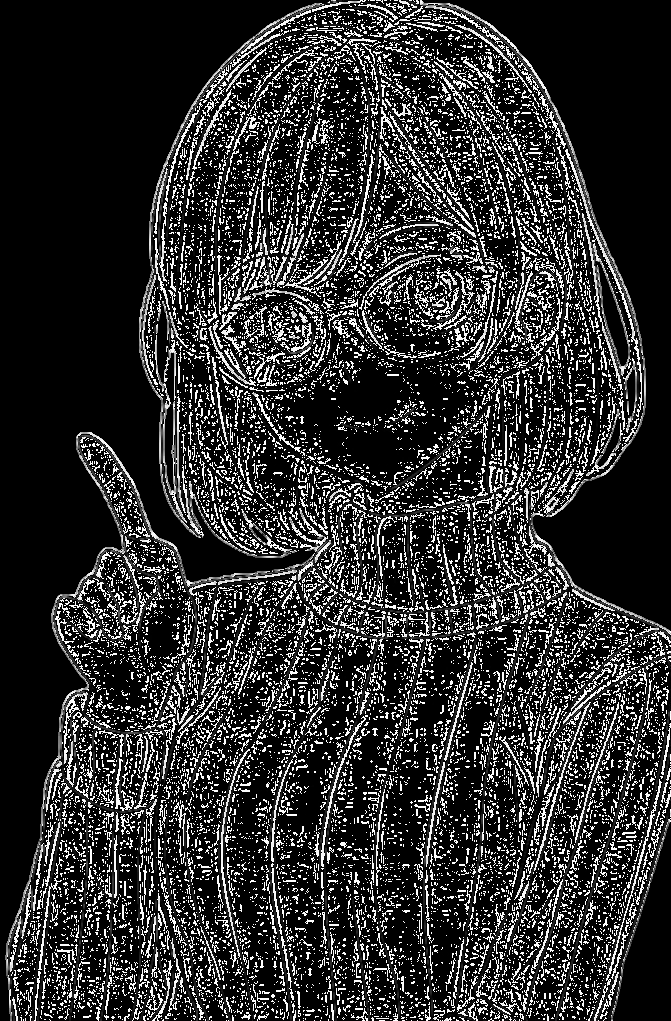
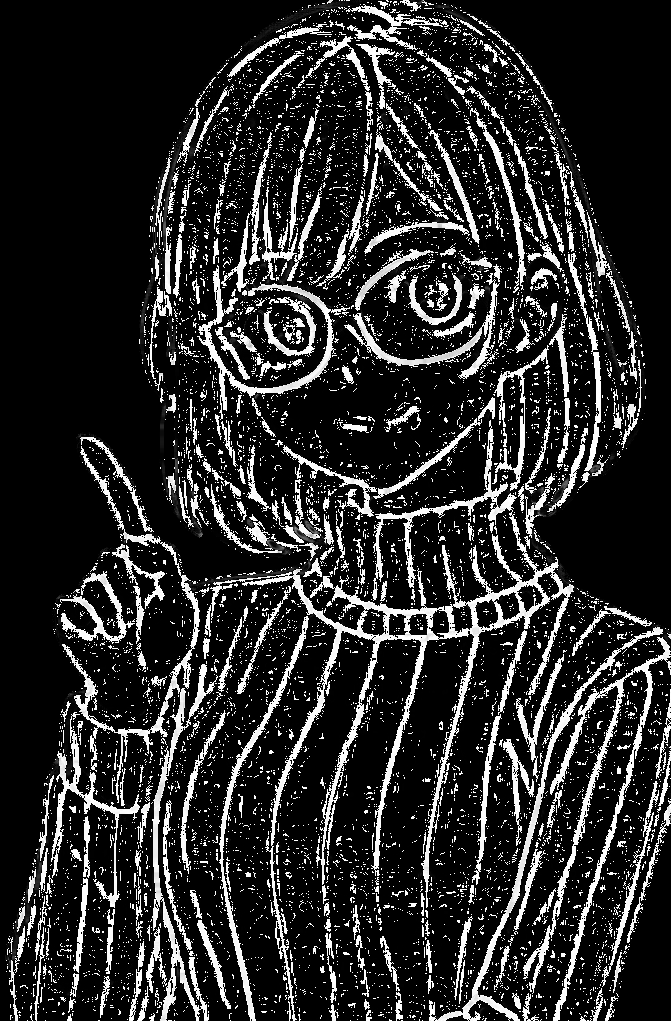
fix

Changed region(s): [[0.0, 0.0, 1.0, 1.0]]

diff --git a/python/opencv/filter2d/DoM/sample01.py b/python/opencv/filter2d/DoM/sample01.py
@@ -14,7 +14,8 @@ img = cv.imread('C:/github/sample/python/opencv/filter2d/DoM/input.png')
 gray = cv.cvtColor(img, cv.COLOR_RGB2GRAY)
 
 # DoMフィルタの適用
-dom_img = DoM(gray,3, 5)
+dom_img = DoM(gray,11, 9)
+
 
 # 結果を保存
 cv.imwrite('C:/github/sample/python/opencv/filter2d/DoM/output.png', dom_img)
